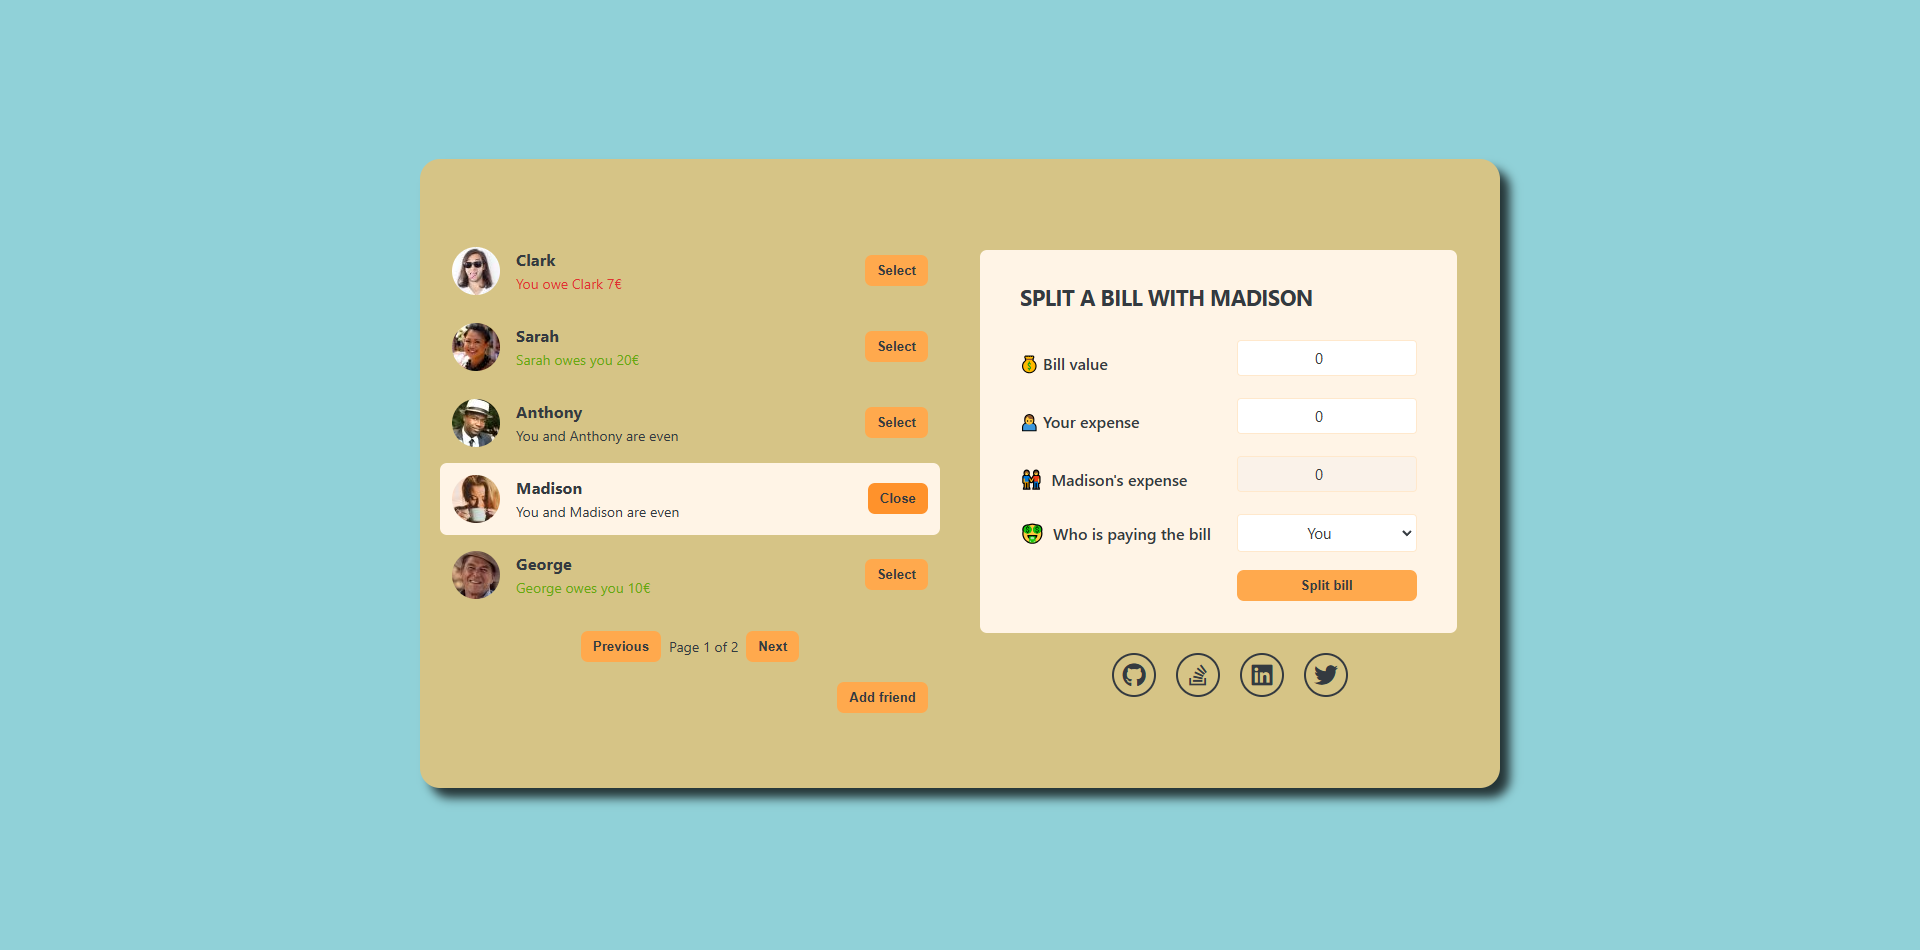
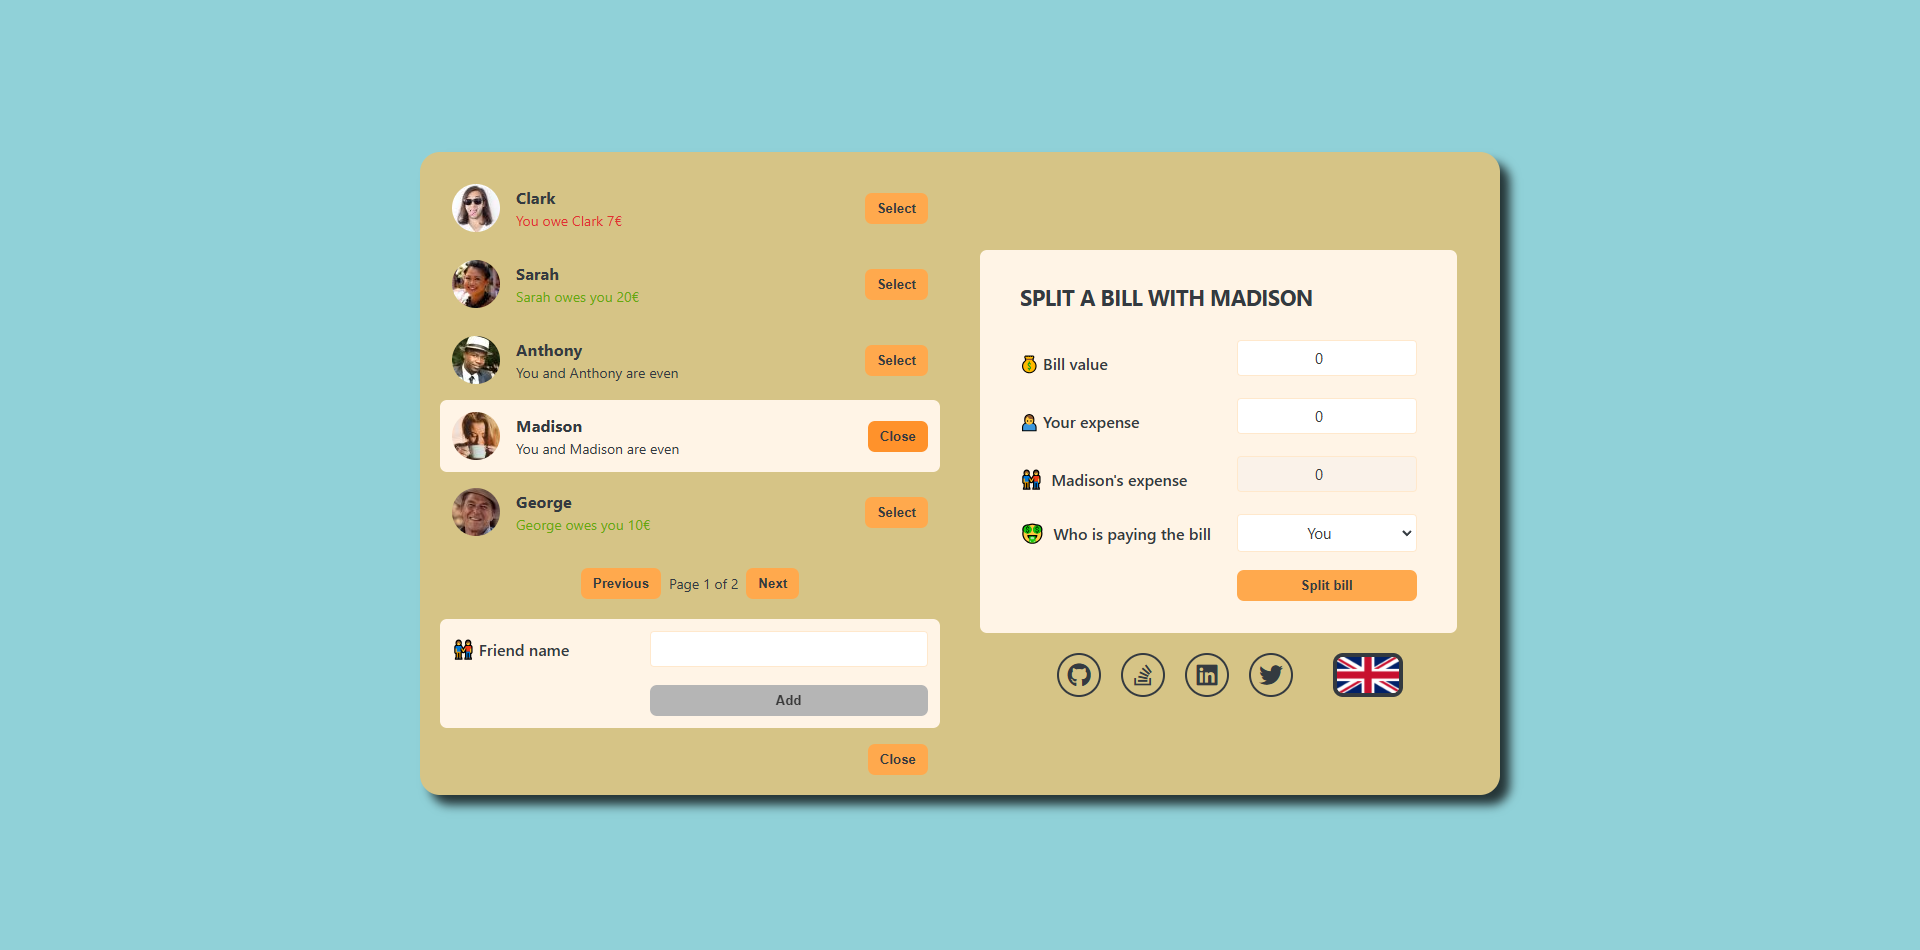
FAIR SHARE 2.0.0
Add Change Language Feature

Changed region(s): [[0.2188, 0.1526, 0.7812, 0.8547], [0.5312, 0.6716, 0.75, 0.7326]]

diff --git a/src/components/App.js b/src/components/App.js
@@ -1,12 +1,25 @@
-import { useState } from "react"
+import { useState, useContext } from "react"
 import FriendsData from "../data/friendsData.json"
 import SocialMediaData from "../data/socialMediaData.json"
+import { TranslationsContext } from "../contexts/TranslationsContext"
 
 /**
  * @component App.
  * @returns {JSX.Element} - The App component.
  */
 export default function App() {
+  /**
+   * Translations context.
+   * @type {{object}}.
+   */
+  const { language, translations, changeLanguage } = useContext(TranslationsContext)
+
+  /**
+   * Texts translated.
+   * @type {object}.
+   */
+  const texts = translations
+
   /**
    * List of friends.
    * @type {[object, function]}.
@@ -124,25 +137,28 @@ export default function App() {
   return (
     <div className="app">
       <div className="sidebar">
-        <FriendList friends={currentFriends} selectedFriend={selectedFriend} onSelection={handleSelection} />
+        <FriendList texts={texts} friends={currentFriends} selectedFriend={selectedFriend} onSelection={handleSelection} />
         <div className="pagination">
           <Button onClick={handlePreviousPage}>
-            Previous
+            {texts[8]}
           </Button>
           <span>
-            Page {currentPage} of {Math.ceil(friends.length / friendsPerPage)}
+            {texts[9]} {currentPage} {texts[10]} {Math.ceil(friends.length / friendsPerPage)}
           </span>
           <Button onClick={handleNextPage}>
-            Next
+            {texts[11]}
           </Button>
         </div>
-        {showAddFriend && <FormAddFriend onAddFriend={handleAddFriend} />}
-        <Button onClick={handleShowAddFriend}>{showAddFriend ? "Close" : "Add friend"}</Button>
+        {showAddFriend && <FormAddFriend texts={texts} onAddFriend={handleAddFriend} />}
+        <Button onClick={handleShowAddFriend}>{showAddFriend ? texts[4] : texts[12]}</Button>
       </div>
       <div>
-        {selectedFriend && <FormSplitBill selectedFriend={selectedFriend} onSplitBill={handleSplitBill} setShowMessage={setShowMessage} setSplitSuccess={setSplitSuccess} />}
-        {showMessage && <Message setShowMessage={setShowMessage} splitSuccess={splitSuccess} />}
-        <SocialMedia />
+        {selectedFriend && <FormSplitBill texts={texts} selectedFriend={selectedFriend} onSplitBill={handleSplitBill} setShowMessage={setShowMessage} setSplitSuccess={setSplitSuccess} />}
+        {showMessage && <Message texts={texts} setShowMessage={setShowMessage} splitSuccess={splitSuccess} />}
+        <div className="bottom-section">
+          <SocialMedia />
+          <img className="language-flag" src={`flags/${language}.png`} alt={`Language Flag ${language}`} onClick={() => changeLanguage()} />
+        </div>
       </div>
     </div>
   )
@@ -150,12 +166,13 @@ export default function App() {
 
 /**
  * @component FriendList.
+ * @param {object} texts - The Translated Texts.
  * @param {object} friends - The friends list.
  * @param {object} selectedFriend - The selected friend.
  * @param {function} onSelection - Select a friend.
  * @returns {JSX.Element} - The Friend List component.
  */
-function FriendList({ friends, selectedFriend, onSelection }) {
+function FriendList({ texts, friends, selectedFriend, onSelection }) {
   /**
    * List of the friends to show.
    * @type {object}.
@@ -163,18 +180,19 @@ function FriendList({ friends, selectedFriend, onSelection }) {
   const visibleFriends = friends.slice(0, 5)
 
   return (
-    <ul>{visibleFriends.map(friend => <Friend key={friend.id} friend={friend} selectedFriend={selectedFriend} onSelection={onSelection} />)}</ul>
+    <ul>{visibleFriends.map(friend => <Friend texts={texts} key={friend.id} friend={friend} selectedFriend={selectedFriend} onSelection={onSelection} />)}</ul>
   )
 }
 
 /**
  * @component Friend.
+ * @param {object} texts - The Translated Texts.
  * @param {object} friend - The friends.
  * @param {object} selectedFriend - The selected friend.
  * @param {function} onSelection - Select a friend.
  * @returns {JSX.Element} - The Friend component.
  */
-function Friend({ friend, selectedFriend, onSelection }) {
+function Friend({ texts, friend, selectedFriend, onSelection }) {
   /**
    * Check if the friend is selected.
    * @type {boolean}.
@@ -187,20 +205,20 @@ function Friend({ friend, selectedFriend, onSelection }) {
       <h3>{friend.name}</h3>
       {friend.balance < 0 && (
         <p className="red">
-          You owe {friend.name} {Math.abs(friend.balance)}€
+          {texts[0]} {friend.name} {Math.abs(friend.balance)}€
         </p>
       )}
       {friend.balance > 0 && (
         <p className="green">
-          {friend.name} owes you {Math.abs(friend.balance)}€
+          {friend.name} {texts[1]} {Math.abs(friend.balance)}€
         </p>
       )}
       {friend.balance === 0 && (
         <p>
-          You and {friend.name} are even
+          {texts[2]} {friend.name} {texts[3]}
         </p>
       )}
-      <Button onClick={() => onSelection(friend)} selected={isSelected}>{isSelected ? "Close" : "Select"}</Button>
+      <Button onClick={() => onSelection(friend)} selected={isSelected}>{isSelected ? texts[4] : texts[5]}</Button>
     </li>
   )
 }
@@ -221,10 +239,11 @@ function Button({ children, onClick, selected, className = "" }) {
 
 /**
  * @component FormAddFriend.
+ * @param {object} texts - The Translated Texts.
  * @param {function} onAddFriend - Add a friend.
  * @returns {JSX.Element} - The Form Add Friend component.
  */
-function FormAddFriend({ onAddFriend }) {
+function FormAddFriend({ texts, onAddFriend }) {
   /**
    * The name of the new friend.
    * @type {[string, function]}.
@@ -257,8 +276,8 @@ function FormAddFriend({ onAddFriend }) {
 
   return (
     <form className="form-add-friend" onSubmit={handleSubmit}>
-      <InputText inputName="friend-name" value={name} setValue={setName}>👬Friend Name</InputText>
-      <Button className={!name ? "disabled" : ""}>Add</Button>
+      <InputText inputName="friend-name" value={name} setValue={setName}>👬{texts[6]}</InputText>
+      <Button className={!name ? "disabled" : ""}>{texts[7]}</Button>
     </form>
   )
 }
@@ -282,13 +301,14 @@ function InputText({ inputName, children, value, setValue }) {
 
 /**
  * @component FormSplitBill.
+ * @param {object} texts - The Translated Texts.
  * @param {object} selectedFriend - The selected friend.
  * @param {function} onSplitBill - Split a bill.
  * @param {function} setShowMessage - Set if show the message.
  * @param {function} setSplitSuccess - Set if the split was successful.
  * @returns {JSX.Element} - The Form Split Bill component.
  */
-function FormSplitBill({ selectedFriend, onSplitBill, setShowMessage, setSplitSuccess }) {
+function FormSplitBill({ texts, selectedFriend, onSplitBill, setShowMessage, setSplitSuccess }) {
   /**
    * The bill value.
    * @type {[number, function]}.
@@ -359,23 +379,23 @@ function FormSplitBill({ selectedFriend, onSplitBill, setShowMessage, setSplitSu
 
   return (
     <form className="form-split-bill" onSubmit={handleSubmit}>
-      <h2>Split a bill with {selectedFriend.name}</h2>
+      <h2>{texts[13]} {selectedFriend.name}</h2>
       <div>
-        <label htmlFor="bill-value">💰 Bill value</label>
+        <label htmlFor="bill-value">💰 {texts[14]}</label>
       </div>
       <div className="form-split-bill-input-div">
         <input id="bill-value" name="bill-value" className="form-split-bill-input" type="number" value={bill} onChange={(e) => handleBill(Number(e.target.value))} maxLength={10} />
-        <p className={`form-input-validation-message ${inputBillValidated ? "validated" : ""}`}>* Must be above 0 *</p>
+        <p className={`form-input-validation-message ${inputBillValidated ? "validated" : ""}`}>* {texts[15]} *</p>
       </div>
       <div>
-        <label htmlFor="your-expense">🙍♂ Your expense</label>
+        <label htmlFor="your-expense">🙍♂ {texts[16]}</label>
       </div>
       <div className="form-split-bill-input-div">
         <input id="your-expense" name="your-expense" className="form-split-bill-input" type="number" value={paidByUser} onChange={(e) => setPaidByUser(Number(e.target.value) <= bill && Number(e.target.value) >= 0 ? Number(e.target.value) : paidByUser)} maxLength={10} />
       </div>
-      <InputReadOnly inputName={"friend-expense"} paidByFriend={paidByFriend}>👬 {selectedFriend.name}'s expense</InputReadOnly>
-      <InputSelect inputName={"person-paying"} selectedFriend={selectedFriend.name} whoIsPaying={whoIsPaying} setWhoIsPaying={setWhoIsPaying}>🤑 Who is paying the bill</InputSelect>
-      <Button>Split bill</Button>
+      <InputReadOnly inputName={"friend-expense"} paidByFriend={paidByFriend}>👬 {texts[17]}{selectedFriend.name}{texts[18]}</InputReadOnly>
+      <InputSelect texts={texts} inputName={"person-paying"} selectedFriend={selectedFriend.name} whoIsPaying={whoIsPaying} setWhoIsPaying={setWhoIsPaying}>🤑 {texts[20]}</InputSelect>
+      <Button>{texts[21]}</Button>
     </form>
   )
 }
@@ -400,6 +420,7 @@ function InputReadOnly({ inputName, children, paidByFriend }) {
 
 /**
  * @component InputSelect.
+ * @param {object} texts - The Translated Texts.
  * @param {string} inputName - The name of the input.
  * @param {any} children - The children of the input.
  * @param {object} selectedFriend - The selected friend.
@@ -407,12 +428,12 @@ function InputReadOnly({ inputName, children, paidByFriend }) {
  * @param {function} setWhoIsPaying - Set the person who is paying the bill.
  * @returns {JSX.Element} - The Input Select component.
  */
-function InputSelect({ inputName, children, selectedFriend, whoIsPaying, setWhoIsPaying }) {
+function InputSelect({ texts, inputName, children, selectedFriend, whoIsPaying, setWhoIsPaying }) {
   return (
     <>
       <label htmlFor={inputName}>{children}</label>
       <select id={inputName} name={inputName} value={whoIsPaying} onChange={(e) => setWhoIsPaying((e.target.value))}>
-        <option value="user">You</option>
+        <option value="user">{texts[19]}</option>
         <option value="friend">{selectedFriend}</option>
       </select>
     </>
@@ -421,18 +442,19 @@ function InputSelect({ inputName, children, selectedFriend, whoIsPaying, setWhoI
 
 /**
  * @component Message.
+ * @param {object} texts - The Translated Texts.
  * @param {function} setShowMessage - Set if show the message.
  * @param {boolean} splitSuccess - Check if the split was successful.
  * @returns {JSX.Element} - The Message component.
  */
-function Message({ setShowMessage, splitSuccess }) {
+function Message({ texts, setShowMessage, splitSuccess }) {
   return (
     <div className="message-div">
       <div className="message-text">
-        <p>{splitSuccess ? "Bill split succesfully!!" : "Splitting this bill won't affect your current balance."}</p>
+        <p>{splitSuccess ? texts[22] : texts[23]}</p>
       </div>
       <div className="close-message-div">
-        <button className="close-message-button" onClick={() => setShowMessage(false)}>ACCEPT</button>
+        <button className="close-message-button" onClick={() => setShowMessage(false)}>{texts[24]}</button>
       </div>
     </div>
   )

diff --git a/src/contexts/TranslationsContext.js b/src/contexts/TranslationsContext.js
@@ -1,0 +1,54 @@
+import { createContext, useState } from "react"
+import TranslationsData from "../data/translationsData.json"
+
+/**
+ * Translations Context.
+ * @type {object}.
+ */
+export const TranslationsContext = createContext()
+
+/**
+ * @component Translations Provider.
+ * @param {object} children - The child of the component.
+ * @returns {JSX.Element} - The Translations Provider component.
+ */
+export function TranslationsProvider({ children }) {
+    /**
+     * Language.
+     * @type {[string, function]}.
+     */
+    const [language, setLanguage] = useState("EN")
+
+    /**
+     * The translations of the corresponding language.
+     * @type {object}.
+     */
+    const translations = TranslationsData[language]
+
+
+    /**
+     * Handles change to the next Language.
+     */
+    function handleChangeLanguage() {
+        setLanguage((prevLanguage) => {
+            switch (prevLanguage) {
+                case "ES":
+                    return "FR"
+                case "FR":
+                    return "EN"
+                case "EN":
+                    return "PT"
+                case "PT":
+                    return "ES"
+                default:
+                    return "EN"
+            }
+        })
+    }
+
+    return (
+        <TranslationsContext.Provider value={{ language, translations, changeLanguage: handleChangeLanguage }}>
+            {children}
+        </TranslationsContext.Provider>
+    )
+}

diff --git a/src/index.css b/src/index.css
@@ -267,11 +267,19 @@ form h2 {
   transform: scale(1.02);
 }
 
+.bottom-section {
+  display: flex;
+  justify-content: center;
+  align-items: center;
+  gap: 4rem;
+  margin-top: 2rem;
+}
+
 .social-media {
   display: flex;
   justify-content: center;
+  align-items: center;
   gap: 2rem;
-  margin-top: 2rem;
 }
 
 .social-media .icon {
@@ -293,6 +301,17 @@ form h2 {
   font-size: 2.4rem;
   width: 4rem;
   height: 4rem;
+}
+
+.language-flag {
+  width: 7rem;
+  height: 4.4rem;
+  border: solid var(--color-text) 4px;
+  border-radius: 10px;
+}
+
+.language-flag:hover {
+  cursor: pointer;
 }
 
 .disabled {

diff --git a/src/index.js b/src/index.js
@@ -2,6 +2,7 @@ import "./index.css"
 import React from "react"
 import App from "./components/App"
 import ReactDOM from "react-dom/client"
+import AppProviders from "./providers/AppProviders"
 
 /**
  * Entry point of the application.
@@ -12,6 +13,8 @@ import ReactDOM from "react-dom/client"
 const root = ReactDOM.createRoot(document.getElementById("root"))
 root.render(
   <React.StrictMode>
-    <App />
+    <AppProviders>
+      <App />
+    </AppProviders>
   </React.StrictMode>
 )

diff --git a/src/providers/AppProviders.js b/src/providers/AppProviders.js
@@ -1,0 +1,16 @@
+import { TranslationsProvider } from "../contexts/TranslationsContext"
+
+/**
+ * @component App Providers.
+ * @param {object} children - The child of the component.
+ * @returns {JSX.Element} - The App Providers component.
+ */
+const AppProviders = ({ children }) => {
+  return (
+    <TranslationsProvider>
+      {children}
+    </TranslationsProvider>
+  )
+}
+
+export default AppProviders

diff --git a/README.md b/README.md
@@ -10,7 +10,7 @@
 
 - **STACK :**
 
-  - **Fair Share** : `1.10.0`
+  - **Fair Share** : `2.0.0`
   - **React** : `18.3.1`
   - **React Dom** : `18.3.1`
 
